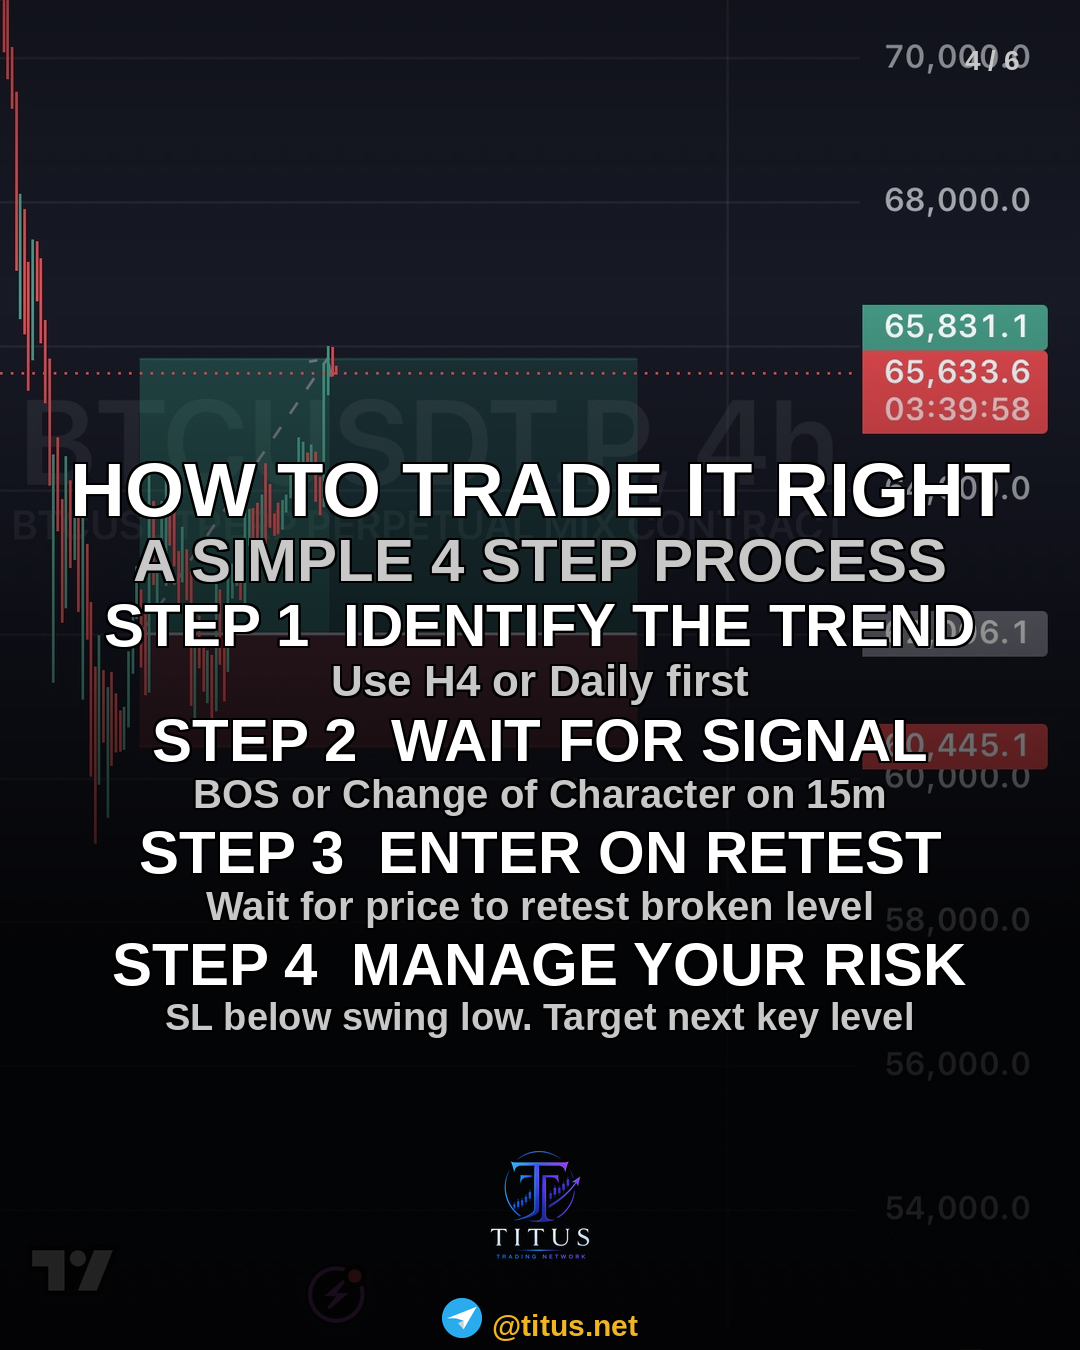
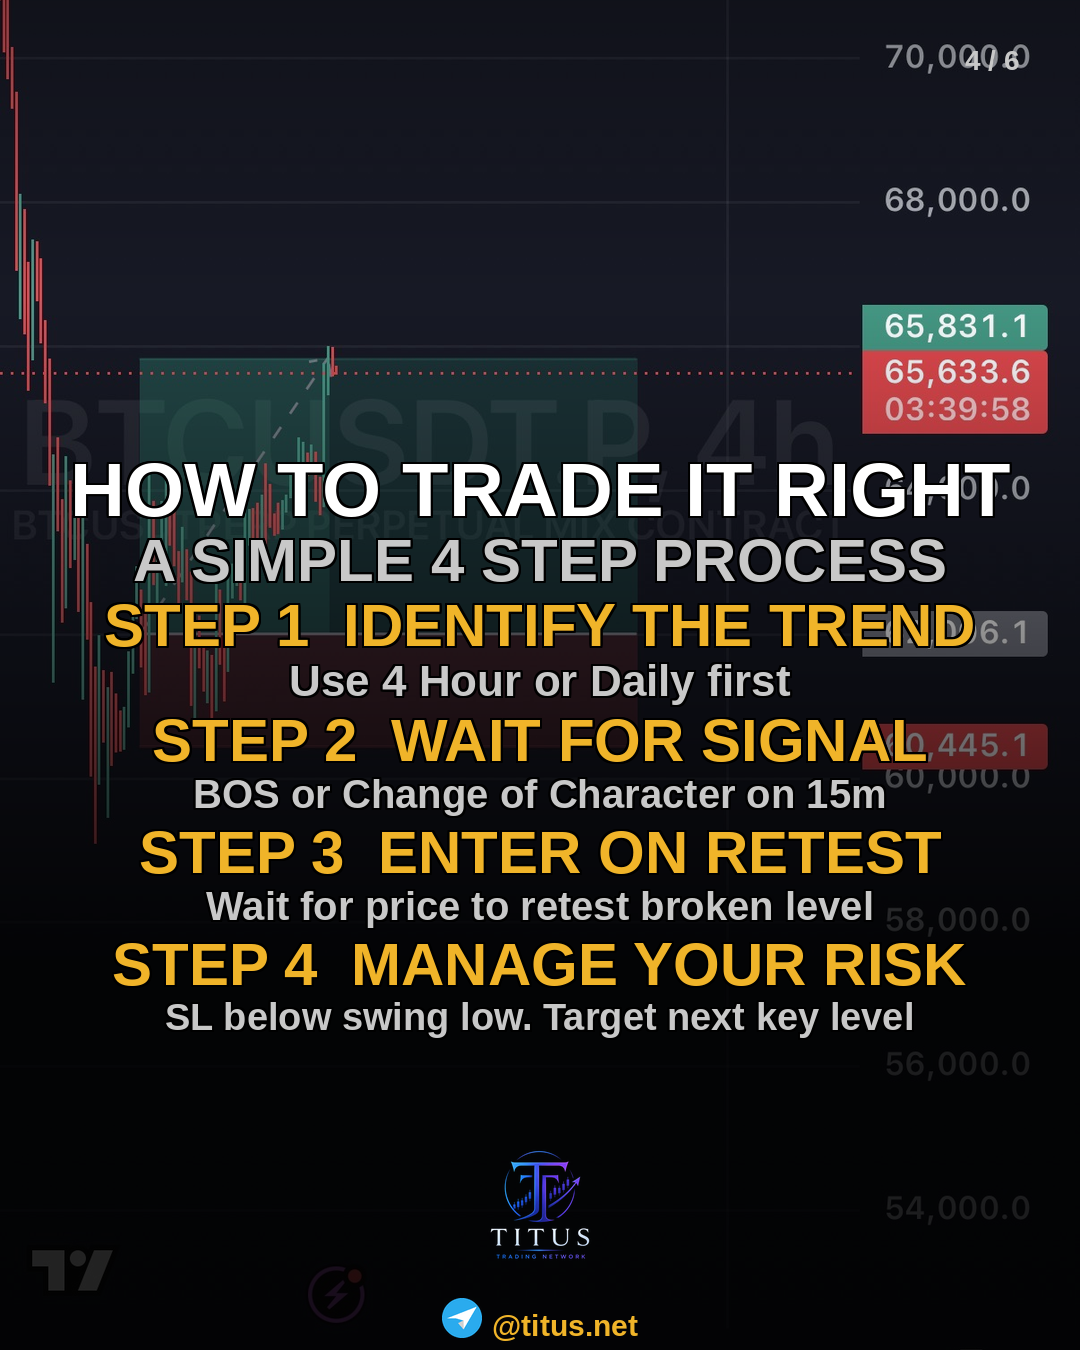
Fix slide 4: gold step headers + replace H4 with 4 Hour
Step labels now match the gold colour scheme used across other slides. H4 jargon replaced with plain language.

https://claude.ai/code/session_01JKQuMZuwvQsYGbk1vyeCpa

Changed region(s): [[0.0917, 0.4356, 0.9167, 0.6533], [0.275, 0.6844, 0.8861, 0.7467], [0.0917, 0.6844, 0.2444, 0.7467]]

diff --git a/slides/build_slides2to6.py b/slides/build_slides2to6.py
@@ -176,13 +176,13 @@ def build_slide4():
     draw_block(d, [
         ("HOW TO TRADE IT RIGHT",     88, WHITE),
         ("A SIMPLE 4 STEP PROCESS",   60, GREY),
-        ("STEP 1  IDENTIFY THE TREND", 60, WHITE),
-        ("Use H4 or Daily first",      44, GREY),
-        ("STEP 2  WAIT FOR SIGNAL",    60, WHITE),
+        ("STEP 1  IDENTIFY THE TREND", 60, GOLD),
+        ("Use 4 Hour or Daily first",  44, GREY),
+        ("STEP 2  WAIT FOR SIGNAL",    60, GOLD),
         ("BOS or Change of Character on 15m", 40, GREY),
-        ("STEP 3  ENTER ON RETEST",    60, WHITE),
+        ("STEP 3  ENTER ON RETEST",    60, GOLD),
         ("Wait for price to retest broken level", 40, GREY),
-        ("STEP 4  MANAGE YOUR RISK",   60, WHITE),
+        ("STEP 4  MANAGE YOUR RISK",   60, GOLD),
         ("SL below swing low. Target next key level", 38, GREY),
     ], int(H * 0.28), ly - 20)
     return bg
